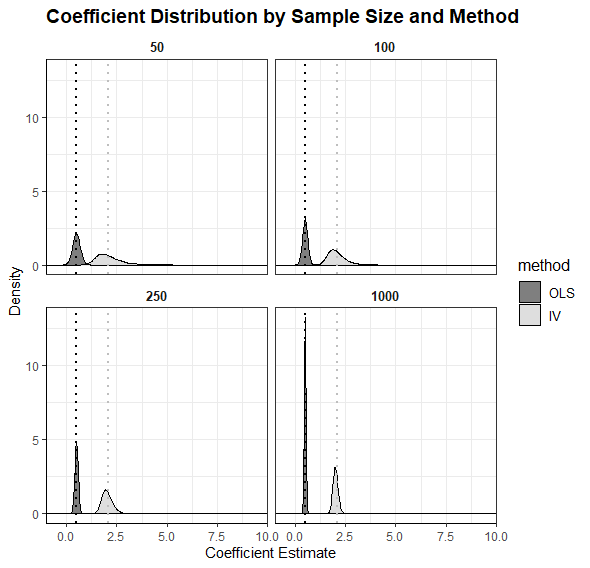
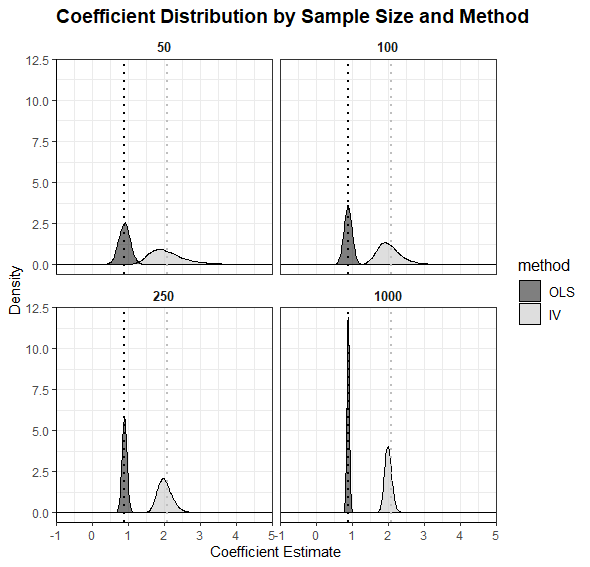
Restructure Files
-New R-Code file for all Codeing
-Markdown now excludes coding elementt to speed up knit

diff --git a/Problem_Set_2.md b/Problem_Set_2.md
@@ -49,6 +49,96 @@ instrument ($Z_i$) unexpectedly. $D_{1i}=0\ and\ D_{0i}=1$.
 
 ## Question 2: Simulation Excercise
 
-You can include R code in the document as follows:
+The following 5 steps were used to generate the toy data:
 
-![an image caption Source:](Rplot_2a.png)
+1.  Generate a pool of 100,000 observations that meet the specified
+    criteria
+2.  Draw 10,000 samples of varying sizes from the pool for each sample
+    size
+3.  Conduct OLS and IV on each sample to obtain the beta coefficients
+4.  Compute the mean of the beta coefficients for each sample size by
+    estimator
+5.  Plot the results
+
+The process to generate the data is the same aside from modifications to
+parameter correlations.
+
+### Q2 - Part A
+
+The plot below displays the distribution of estimated $\beta$
+coefficients for $x$ based on sample size and method.
+
+The sample sizes are arranged in an increasing order, with the sample
+size of 50 appearing in the top left and the sample size of 1000 in the
+bottom right.
+
+OLS coefficients are shown in black and IV estimates of $\beta$ in light
+grey. A dotted line in the same color highlights the mean $\beta$
+coefficient.
+
+![an image caption Source: “Author”](Rplot_2a.png)
+
+The target value for $\beta$ is 1, but the results from the OLS method
+are affected by the correlation between variables $x$ and $\epsilon$. As
+the sample size increases, the OLS estimates for $\beta$ converge
+towards 0.90 from below, while the estimates from the IV method approach
+2 from above when the sample size reaches 1000.
+
+If the error term $\epsilon$ were independently and identically
+distributed, the OLS method would produce a $\beta$ coefficient of 1.
+However, due to the positive correlation of 40% between $x$ and
+$\epsilon$, the OLS estimate is biased downward, resulting in a $\beta$
+coefficient approaching 0.9. In contrast, the IV method suggests that
+the true effect of $x$ on $y$ is approaching 2.
+
+The OLS estimates may be biased due to endogeneity, and thus do not
+converge on the “true” value of $\beta$. However, they converge faster
+and with less variance than IV estimates, and with increased
+concentration on the mean. The IV estimator is more prone to producing
+extreme $\beta$ coefficients, particularly in small samples of 50 or
+100, as demonstrated by a highest estimate of $\beta_{IV}=1541$.
+
+These findings suggest that more data is needed for reliable IV
+estimates. The distribution of IV coefficients for samples of 1000 is
+similar in shape and peakedness to the distributions of OLS for samples
+of 100. From this comparison, it may be more efficient to address
+omitted variable bias through the inclusion of additional data when
+possible, rather than relying on IV estimators as a first solution.
+
+### Q2 - Part B
+
+The data in the plot 2b shows the results that are consistent with those
+in Part A. The only difference is the modification to the correlations
+in the data that have weakened the instrument $z$.
+
+![an image caption Source:](Rplot_2b.png)
+
+Previously, we stated that the target value for $\beta$ was 1, but the
+results from the OLS method were affected by the correlation between
+variables $x$ and $\epsilon$. This remains the same. As the sample size
+increases, the OLS estimates for $\beta$ converge towards 0.55 from
+below, while the estimates from the IV method approach 7 as the sample
+size reaches 1000. However, the mean for the IV now jumps erratically as
+the correlation between $x$ and $Z$ has weakened.
+
+If the error term $\epsilon$ were independent and identically
+distributed, the OLS method would have produced a $\beta$ coefficient
+of 1. However, due to the positive correlation of 40% between $x$ and
+$\epsilon$, the OLS estimate is biased downwards, resulting in a $\beta$
+coefficient of 0.55. On the other hand, the IV method suggests that the
+true effect of $x$ on $y$ is approaching 7, but the IV estimate is less
+consistent as the sample size increases, with more erratic results.
+
+The OLS estimates may be biased due to endogeneity, but they converge
+faster and with less variance compared to the IV estimates. However,
+this difference is even more pronounced now that the instrument has been
+weakened. The IV estimator tends to produce more extreme $\beta$
+coefficients, especially in small samples of 50 or 100, as demonstrated
+by the highest estimate of $\beta_{IV}=1541$. The peakedness of these
+distributions is significantly lower compared to Part A.
+
+These results indicate that IV estimators may not be as reliable as OLS
+estimators, even if they are biased, unless you have a powerful
+instrument that allows you to obtain reasonable, reliable estimates. The
+strength of the instrument should be considered along with the sample
+size available to achieve reliable estimation.
